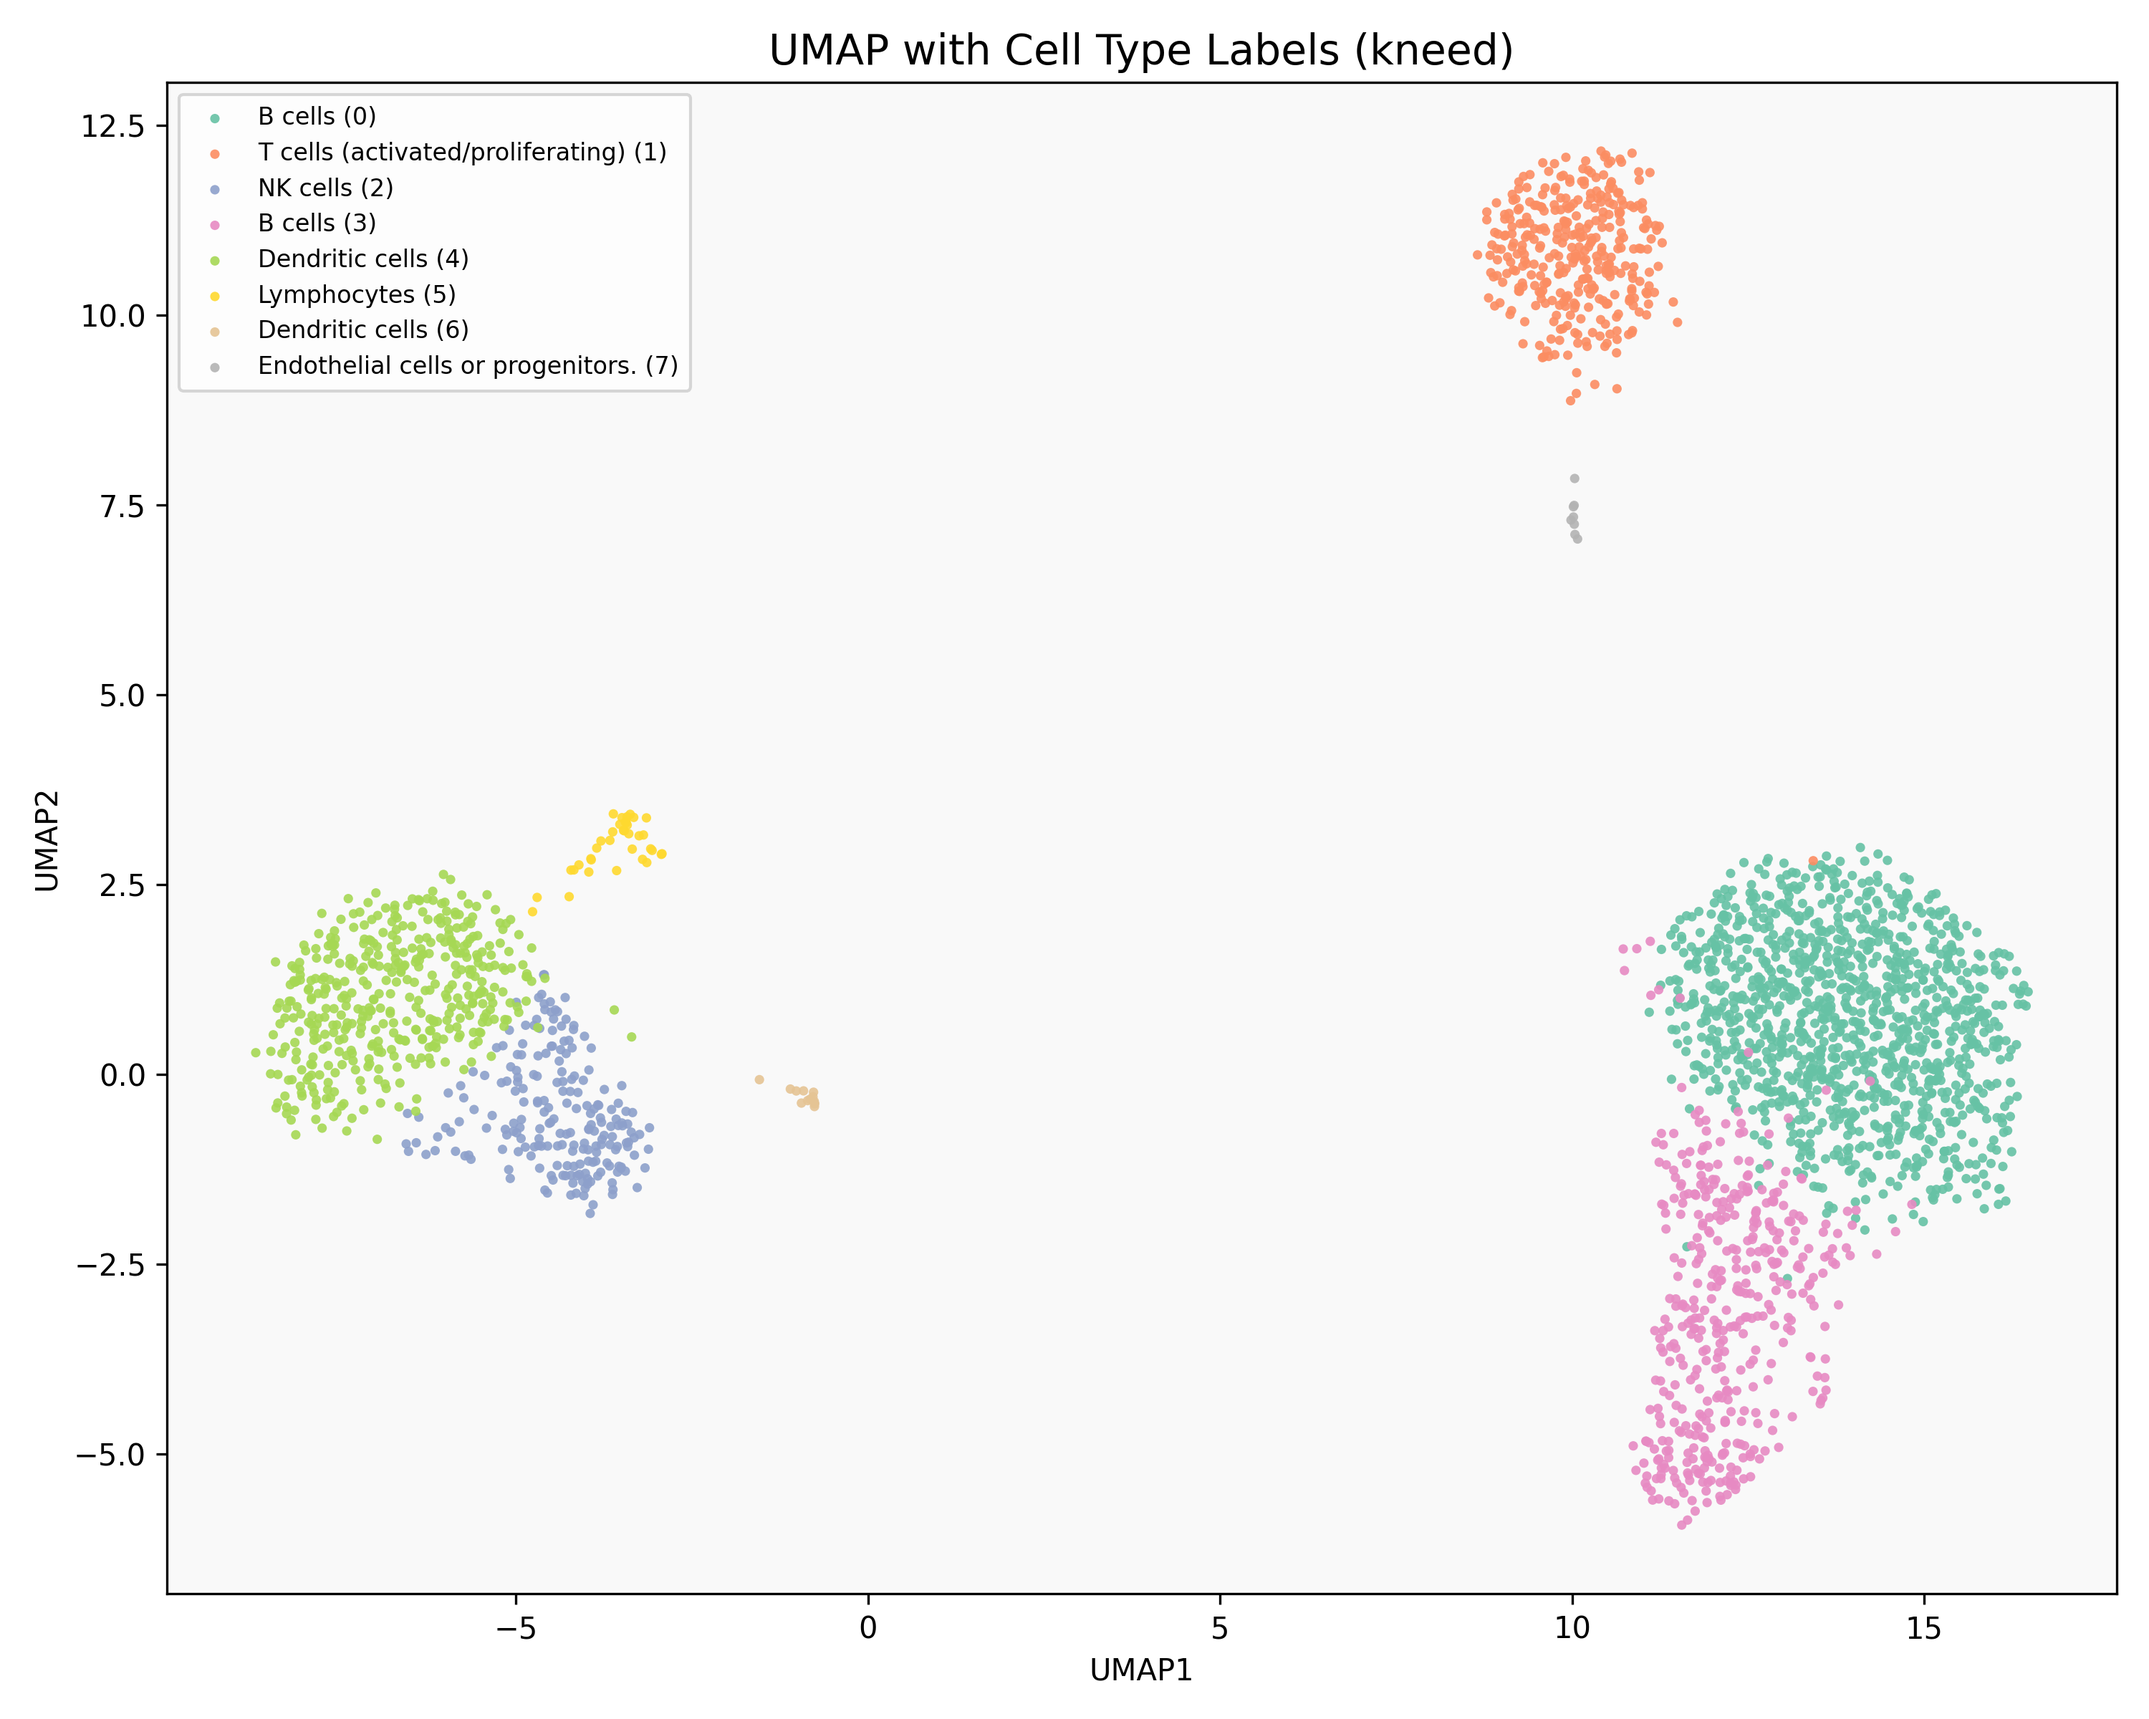
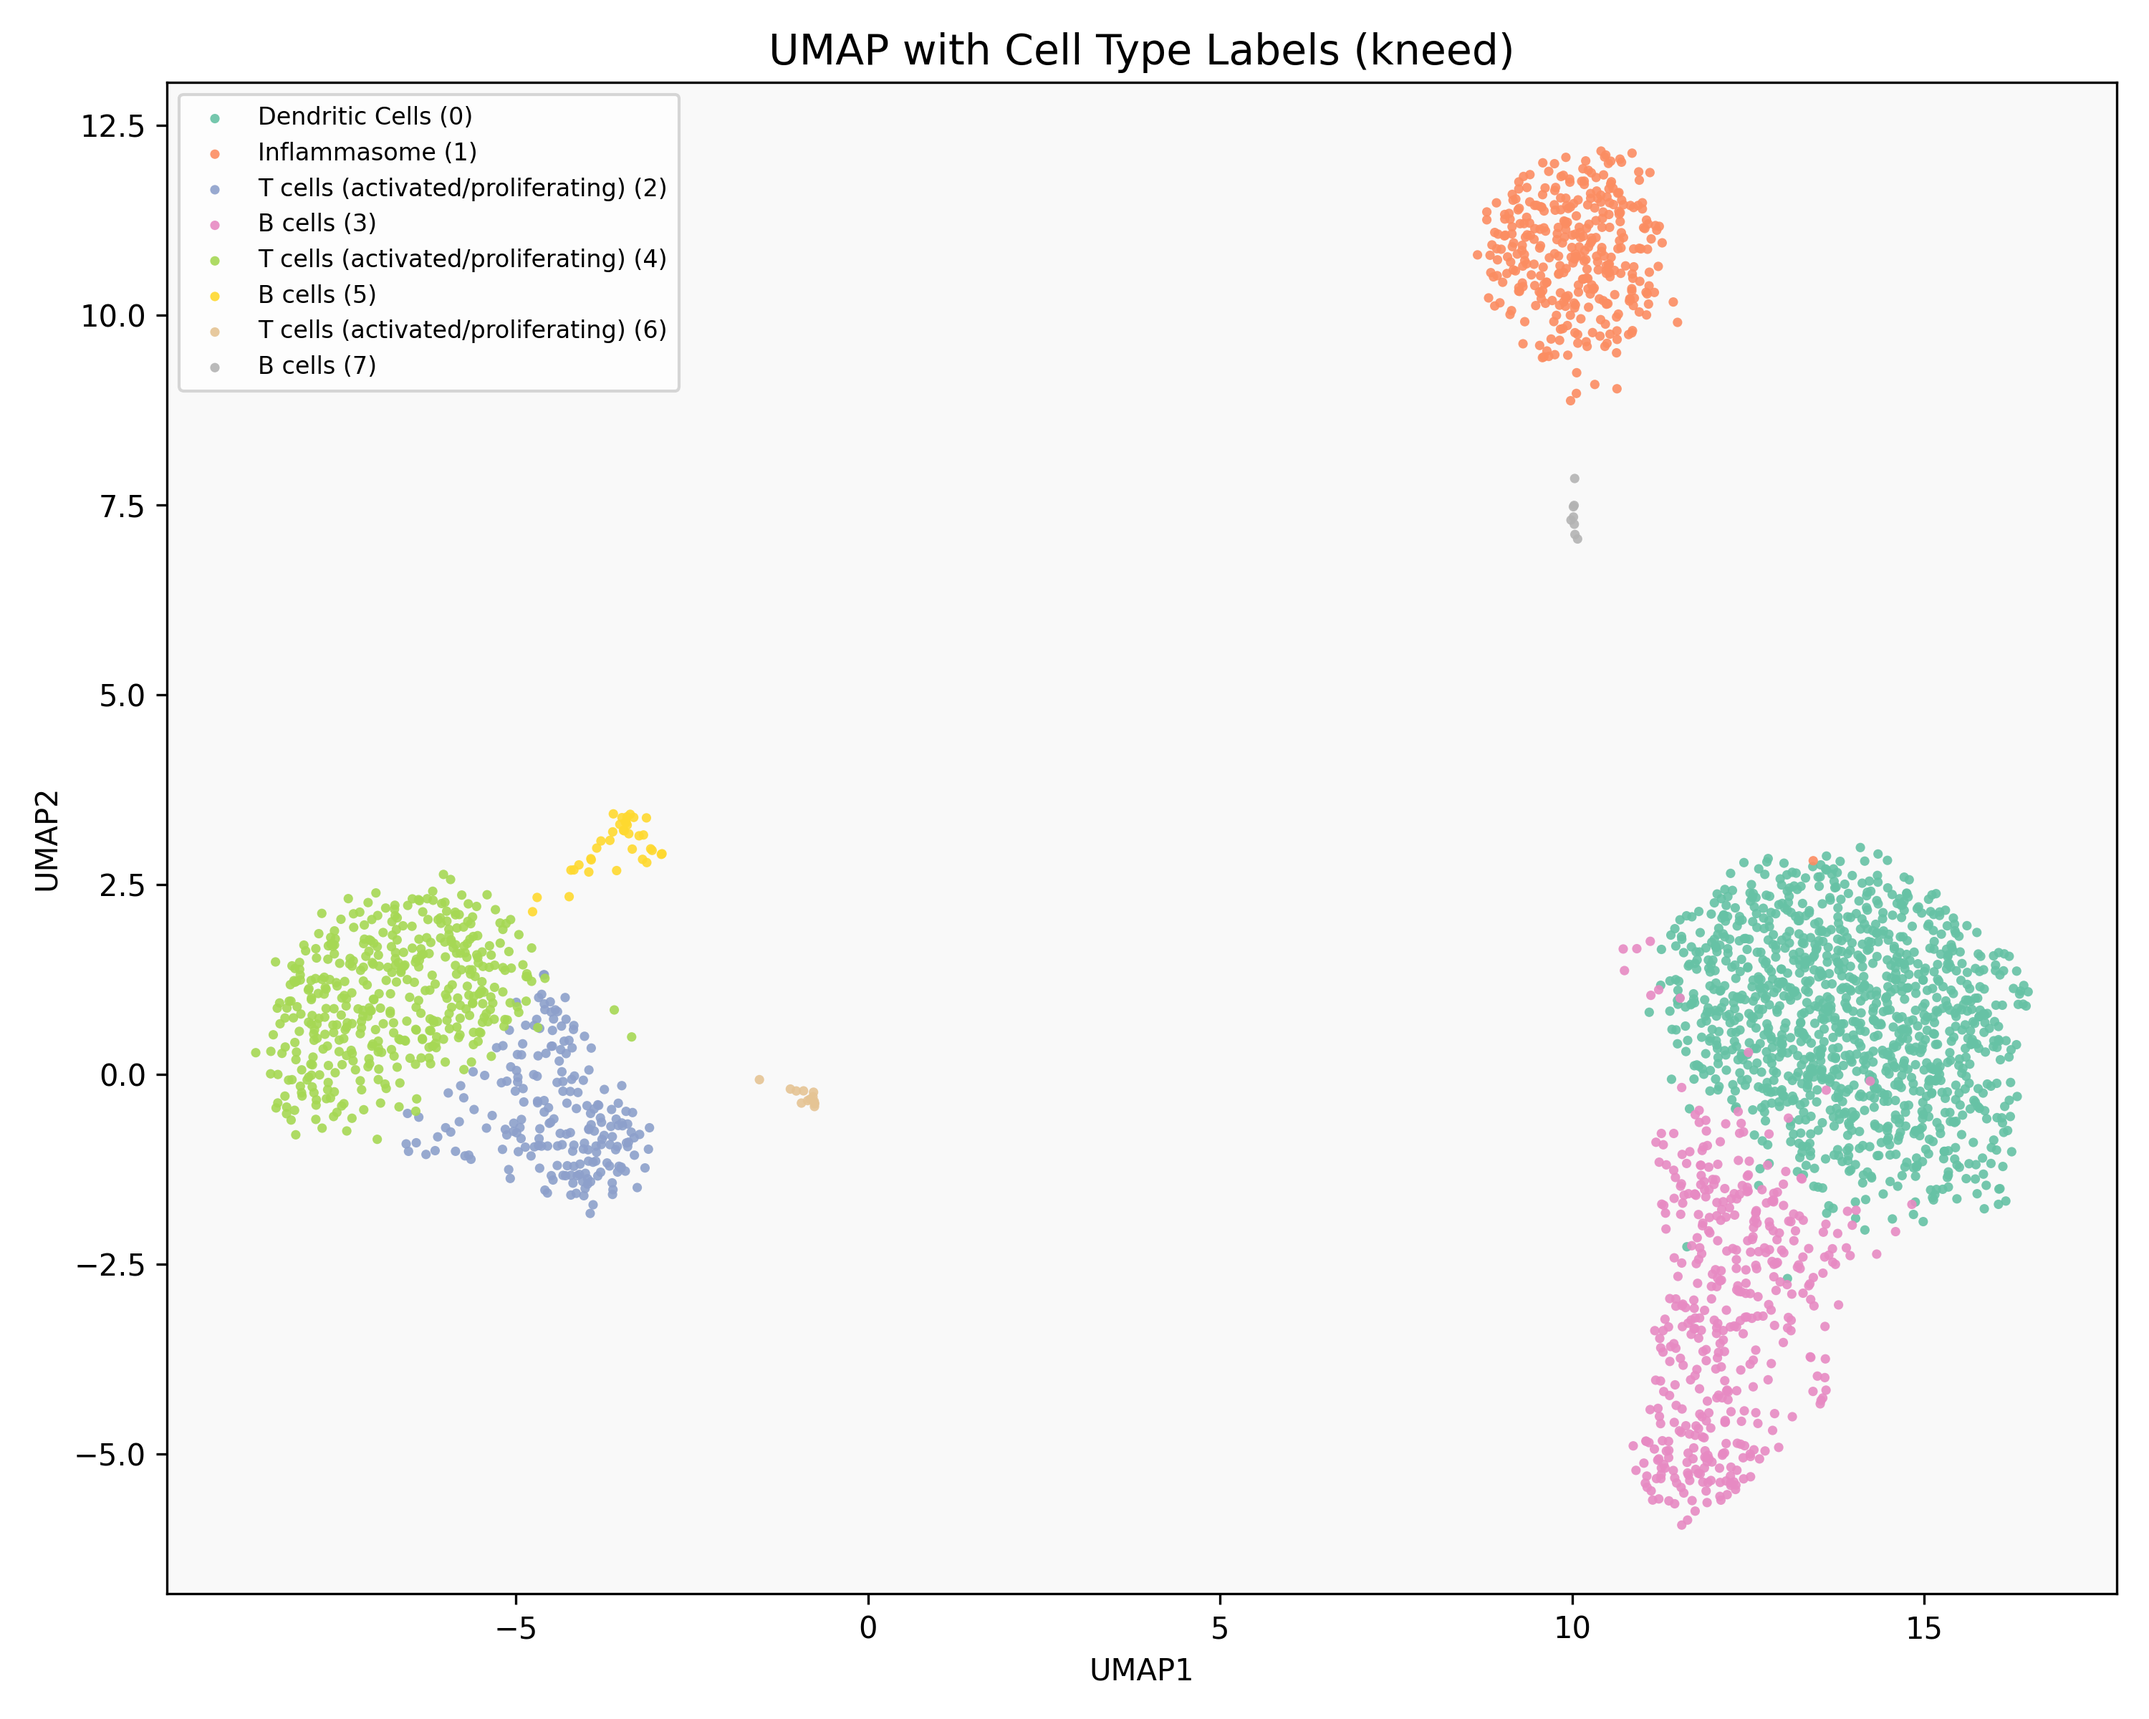
Full pipeline

Changed region(s): [[0.124, 0.0625, 0.341, 0.2188]]

diff --git a/reports/report_standard.html b/reports/report_standard.html
@@ -38,42 +38,42 @@
     <tr>
       <td>cluster_0</td>
       <td>ID2, PLEKHF1, CAPN12, PLEK, S100A4, GYG1, CMC1, GNLY, XCL2, PPP2R2B</td>
-      <td>Dendritic cells</td>
+      <td>B cells</td>
     </tr>
     <tr>
       <td>cluster_1</td>
       <td>AC079767.4, CYB561A3, ADAM28, POU2AF1, QRSL1, MEF2C, SNX29P2, CD22, SWAP70, MARCH1</td>
-      <td>Myeloid/monocytic cells</td>
+      <td>B cells</td>
     </tr>
     <tr>
       <td>cluster_2</td>
       <td>GATA3, SEPT1, STMN3, BTG2, SH3YL1, SELM, C14orf64, CISH, CXCR4, GPR183</td>
-      <td>NK cells</td>
+      <td>T cells (activated/proliferating)</td>
     </tr>
     <tr>
       <td>cluster_4</td>
       <td>LYL1, SMCO4, CPVL, MT2A, HLA-DRB5, LGALS3, APOBEC3B, HLA-DRB1, CTSB, S100A9</td>
-      <td>T cells (activated/proliferating)</td>
+      <td>B cells</td>
     </tr>
     <tr>
       <td>cluster_5</td>
       <td>NCR1, F2R, ALOX5AP, PTGDS, ABHD17A, PLEK, CCL3, ID2, CCL5, TYROBP</td>
-      <td>T cells (activated/proliferating)</td>
+      <td>Myeloid Cells</td>
     </tr>
     <tr>
       <td>cluster_6</td>
       <td>TKT, PSAP, VCAN, PYCARD, TNFSF13B, S100A11, BRI3, MNDA, CTSS, FPR1</td>
-      <td>Myeloid cells</td>
+      <td>B cells</td>
     </tr>
     <tr>
       <td>cluster_3</td>
       <td>IL7R, NGFRAP1, RGCC, ZNF141, RPS29, PILRB, PASK, PDCD4-AS1, C14orf64, DENND2D</td>
-      <td>T cells (activated/proliferating)</td>
+      <td>Macrophages</td>
     </tr>
     <tr>
       <td>cluster_7</td>
       <td>PLA2G12A, ILK, MLH3, TPM4, NGFRAP1, SNN, FAXDC2, HGD, MAP3K7CL, PGRMC1</td>
-      <td>Myeloid cells</td>
+      <td>B cells</td>
     </tr>
   </tbody>
 </table>

diff --git a/reports/combined_report.html b/reports/combined_report.html
@@ -70,50 +70,50 @@
   <tbody>
     <tr>
       <td>cluster_0</td>
-      <td>Dendritic cells</td>
       <td>B cells</td>
-      <td>T cells (activated/proliferating)</td>
+      <td>Dendritic Cells</td>
+      <td>B cells</td>
     </tr>
     <tr>
       <td>cluster_1</td>
-      <td>Myeloid/monocytic cells</td>
-      <td>T cells (activated/proliferating)</td>
-      <td>Basophils</td>
+      <td>B cells</td>
+      <td>Inflammasome</td>
+      <td>B cells</td>
     </tr>
     <tr>
       <td>cluster_2</td>
-      <td>NK cells</td>
-      <td>NK cells</td>
+      <td>T cells (activated/proliferating)</td>
+      <td>T cells (activated/proliferating)</td>
       <td>-</td>
     </tr>
     <tr>
       <td>cluster_3</td>
-      <td>T cells (activated/proliferating)</td>
+      <td>Macrophages</td>
       <td>B cells</td>
       <td>-</td>
     </tr>
     <tr>
       <td>cluster_4</td>
+      <td>B cells</td>
       <td>T cells (activated/proliferating)</td>
-      <td>Dendritic cells</td>
       <td>-</td>
     </tr>
     <tr>
       <td>cluster_5</td>
-      <td>T cells (activated/proliferating)</td>
-      <td>Lymphocytes</td>
+      <td>Myeloid Cells</td>
+      <td>B cells</td>
       <td>-</td>
     </tr>
     <tr>
       <td>cluster_6</td>
-      <td>Myeloid cells</td>
-      <td>Dendritic cells</td>
+      <td>B cells</td>
+      <td>T cells (activated/proliferating)</td>
       <td>-</td>
     </tr>
     <tr>
       <td>cluster_7</td>
-      <td>Myeloid cells</td>
-      <td>Endothelial cells or progenitors.</td>
+      <td>B cells</td>
+      <td>B cells</td>
       <td>-</td>
     </tr>
   </tbody>

diff --git a/reports/report_kneed.html b/reports/report_kneed.html
@@ -38,17 +38,17 @@
     <tr>
       <td>cluster_0</td>
       <td>IL27RA, XXbac-BPG299F13.17, MAGEH1, CCND2, STK17A, AP3M2, MDS2, CD247, SUCLG2, CORO1B</td>
-      <td>B cells</td>
+      <td>Dendritic Cells</td>
     </tr>
     <tr>
       <td>cluster_1</td>
       <td>KCNG1, PAX5, BTK, GUCD1, PAWR, PTPRCAP, PLD4, BACE2, RP11-428G5.5, C16orf74</td>
-      <td>T cells (activated/proliferating)</td>
+      <td>Inflammasome</td>
     </tr>
     <tr>
       <td>cluster_2</td>
       <td>RELT, SMCO4, ARPC1B, HLA-DPB1, FCGRT, CYBA, OAS1, RXRA, NCF2, SRGN</td>
-      <td>NK cells</td>
+      <td>T cells (activated/proliferating)</td>
     </tr>
     <tr>
       <td>cluster_3</td>
@@ -58,22 +58,22 @@
     <tr>
       <td>cluster_4</td>
       <td>CEBPB, BLVRA, SRGN, C1orf162, TNFAIP2, STX11, APOBEC3A, LINC00936, IL1B, CCL3</td>
-      <td>Dendritic cells</td>
+      <td>T cells (activated/proliferating)</td>
     </tr>
     <tr>
       <td>cluster_5</td>
       <td>IRF7, IRF8, TNFSF13B, TPM4, ARPC1B, COTL1, LAMTOR1, LST1, ZNF503, PYCARD</td>
-      <td>Lymphocytes</td>
+      <td>B cells</td>
     </tr>
     <tr>
       <td>cluster_6</td>
       <td>ESAM, FAXDC2, RP11-879F14.2, ODC1, MARCH2, PARVB, SCGB1C1, NCOA4, HGD, C6orf25</td>
-      <td>Dendritic cells</td>
+      <td>T cells (activated/proliferating)</td>
     </tr>
     <tr>
       <td>cluster_7</td>
       <td>GLRX3, PRPF31, TPM4, JAKMIP1, EXOSC8, MPP6, TMEM208, POLR2E, THOC7, MMADHC</td>
-      <td>Endothelial cells or progenitors.</td>
+      <td>B cells</td>
     </tr>
   </tbody>
 </table>

diff --git a/reports/report_inflection.html b/reports/report_inflection.html
@@ -38,12 +38,12 @@
     <tr>
       <td>cluster_0</td>
       <td>IFI30, CEBPB, RNASE6, RAB32, LYST, TLN1, LRRC25, ZNF385A, CFP, SULF2</td>
-      <td>T cells (activated/proliferating)</td>
+      <td>B cells</td>
     </tr>
     <tr>
       <td>cluster_1</td>
       <td>AURKB, C14orf142, FAF1, UTP18, ASF1B, POU2AF1, ELOF1, MKI67, ME2, BLK</td>
-      <td>Basophils</td>
+      <td>B cells</td>
     </tr>
   </tbody>
 </table>

diff --git a/README.md b/README.md
@@ -1,1 +1,149 @@
+
 # deepseq
+
+DeepSeq is a complete pipeline for analyzing PBMC (Peripheral Blood Mononuclear Cells) single-cell RNA sequencing data.  
+It automates data filtering, clustering, cell-type classification using LLMs (Ollama), UMAP visualization, report generation, and launches a Dash web application for interactive exploration.
+
+---
+
+## 📋 Pipeline Overview
+
+| Step | Script | Description |
+|:----|:-----|:------------------------------------------------|
+| 0 | `00_installrequirements.py` | Install Python packages and pull Ollama model |
+| 1 | `01_geth5ad.py` | Download standard PBMC3K dataset |
+| 2 | `02_filteredh5ad.py` | Filter cells based on UMI/gene thresholds |
+| 3 | `03_clusterh5ad.py` | Cluster cells using Leiden algorithm |
+| 4 | `04_classifyclusters.py` | Classify clusters using LLM (Ollama with `llama3.2:1b`) |
+| 5 | `05_labelumap.py` | Generate labeled UMAP plots |
+| 6 | `06_generatereport.py` | Generate summary HTML and PDF reports |
+| 7 | `07_prepareassets.py` | Move figures into Dash assets directory |
+| 8 | `08_deepseq.py` | Launch Dash web application |
+
+---
+
+## 🚀 How to Run
+
+1. Make sure you have Python 3.8+, Pip, and Ollama installed.
+2. Make sure Ollama server is running:  
+   ```bash
+   ollama serve
+   ```
+
+3. Then just run:
+
+```bash
+python run_pipeline.py
+```
+
+This will:
+- Install requirements
+- Pull Ollama `llama3.2:1b`
+- Process the dataset
+- Classify clusters
+- Generate plots
+- Launch your dashboard automatically at:
+
+```bash
+http://127.0.0.1:8050/
+```
+
+---
+
+## ✨ Example Output Snippets
+
+### 00_installrequirements.py
+```
+🚀 Installing Python requirements from requirements.txt...
+✅ Python packages installed successfully!
+
+🚀 Pulling Ollama model 'llama3.2:1b'...
+✅ Ollama model 'llama3.2:1b' pulled successfully!
+```
+
+---
+
+### 02_filteredh5ad.py
+```
+Loaded data/pbmc3k_raw.h5ad with shape (2700, 32738)
+
+Summary Table:
+        Label  Cells   Mean Genes  Median Genes    Mean UMIs  Median UMIs
+0    Standard   2700         847           817          2367        2197
+1       Kneed   2695         848           817          2370        2200
+2  Inflection     19        2223          1997          8584        7171
+```
+
+---
+
+### 04_classifyclusters.py
+```
+Classifying cluster_0 in method 'standard'...
+Classifying cluster_1 in method 'standard'...
+...
+
+✅ Classification complete. Results saved to processed_clusters.json
+```
+
+---
+
+### 06_generatereport.py
+```
+✅ Generated summary HTML and PDF reports in 'reports/' folder
+```
+
+---
+
+### 08_deepseq.py
+```
+Dash is running on http://127.0.0.1:8050/
+ * Serving Flask app '08_deepseq'
+ * Debug mode: on
+```
+
+---
+
+## 📈 Final Products
+
+After running the pipeline:
+- **Interactive Web App**: Dash visualization of clusters
+- **HTML and PDF Reports**: Summary metrics and labeled UMAPs
+- **CSV Exports**: UMAP coordinates and cluster predictions
+- **Labeled Figures**: Saved under `figures/UMAP/labeled/`
+
+---
+
+## 📦 Project Structure
+
+```
+deepseq/
+├── 00_installrequirements.py
+├── 01_geth5ad.py
+├── 02_filteredh5ad.py
+├── 03_clusterh5ad.py
+├── 04_classifyclusters.py
+├── 05_labelumap.py
+├── 06_generatereport.py
+├── 07_prepareassets.py
+├── 08_deepseq.py
+├── run_pipeline.py
+├── requirements.txt
+├── data/
+├── figures/
+├── reports/
+├── assets/
+```
+
+---
+
+## 🧠 Notes
+
+- If Ollama is not running, `04_classifyclusters.py` will fail — make sure Ollama server is active.
+- You can modify clustering parameters (resolution, neighbors) in `03_clusterh5ad.py`.
+- You can switch LLMs (e.g., `llama3:instruct`) easily in `04_classifyclusters.py`.
+
+---
+
+## 👏 Credits
+
+- Built with ❤ using [Scanpy](https://scanpy.readthedocs.io/), [Dash](https://dash.plotly.com/), [Ollama](https://ollama.com/), and [Plotly](https://plotly.com/python/).
